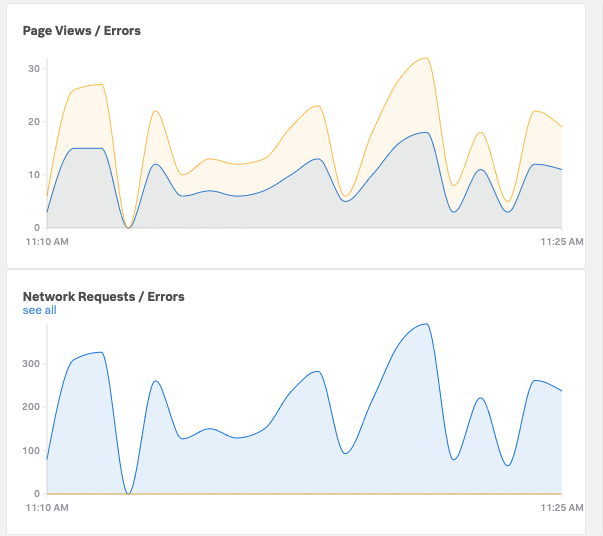
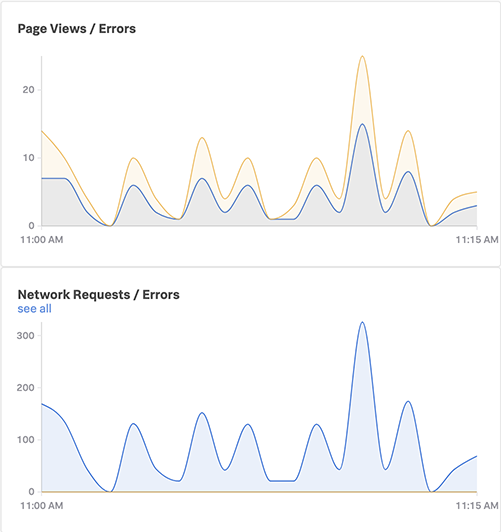
Updated RUM BrowserApp-Summary and associated images

diff --git a/content/en/rum/docs/BrowserApp-Summary.md b/content/en/rum/docs/BrowserApp-Summary.md
@@ -9,62 +9,71 @@ weight: 2
 
 ---
 
-## 1. Browser Application Summary Dashboard Overview
+## 1. Application Summary Dashboard Overview
 
-### 1.1. Header Pane
+### 1.1. Header Bar
 
 As seen in the previous section the RUM Application Summary Dashboard consists of 5 major sections.</br>
-The first section is the selection header, where you can collapse the Pane via the ![RUM-browser](../../images/browser.png) Browser icon or the **>** in front of the application name. which is *jmcj-rum-app* in the example below. 
-It also provides access to the Detailed Application Overview page if you click the link with your application name wich is *jmcj-rum-app* in the example below. 
+The first section is the selection header, where you can collapse the Pane via the ![RUM-browser](../../images/browser.png) Browser icon or the **>** in front of the application name, which is *jmcj-rum-app* in the example below. It also provides access to the *Application Overview* page if you click the link with your application name which is *jmcj-rum-app* in the example below.
 
-Further, you can also visit/open the Application Overview Page and an App Health Dashboard via the hamburger ![trippleburger](../../images/trippleburger.png) menu on the right by selecting *View Dashboard*
+Further, you can also open the *Application Overview*  or *App Health Dashboard* via the triple dot ![trippleburger](../../images/trippleburger.png) menu on the right.
 
 ![RUM-SummaryHeader](../../images/summaryHeader.png)
 
-Please visit the Detailed Overview page for a moment, then use the back button of your browser to return the landing page, then open the Browser App Health Dashboard for a quick visit (note: this dashboard will open in a new page, find the tab with the RUM landing page (Entitled **RUM**) and select it again).
+First use the *View Dashboard* link to open the Browser App Health Dashboard which should open in a new tab.  Then switch back to original RUM tab, and then use the *Open Application Overview* link, or click on the name of the app to launch the Application Overview dashboard.
 
-We will looking at the Detail Overview page and the Browser App Health Dashboard in detail in one of the next sections).
+We will looking at the *Application Overview* and *Browser App Health* Dashboards in detail in the following sections.
 
-### 1.3. Chart Area
-The second section of the RUM Application Summary Dashboard is focused on providing you in a single glance the relation between Pageviews and Errors & Network request and errors occurring in your application. This can be Javascript errors, or failed  network calls to back end services
+## 2. Application Overview
 
-![RUM-chart](../../images/Rum-chart.png)
+The RUM Application Overview Dashboard is focused on providing you with *at a glance* overview of the status of your application. 
 
-In the example above you can see that there are no failed network calls in the bottom chart, but in the PageView chart you can see that a number of page chart do experienced some errors. These are often not visible for regular users, but can seriously impact the performance of your web site. 
+### 2.1. Page Views / Errors & Network Requests / Errors
 
-You can see the count of the Pageviews/network invocations and errors by clicking in the chart.
+The first section shows *Page Views / Errors*, & *Network Requests and Errors* charts show the quantity and trend of these issues in your application. This could be Javascript errors, or failed  network calls to back end services.
 
-![RUM-chart-clicked](../../images/RumChart-clicked.png)
+![RUM-chart](../../images/RUM-Chart.png)
 
-### 1.4. Java Script Errors
-With the third section of the RUM Application Summary Dashboard we are showing you an overview of the Javascript errors occurring in your application as wel of a count of each error. In the example below you can see that there are three error locations 
+In the example above you can see that there are no failed network calls in the Network chart, but in the Page View chart you can see that a number of pages do experience some errors. These are often not visible for regular users, but can seriously impact the performance of your web site.
+
+You can see the count of the Page Views / Network Requests / Errors by hovering over the charts.
+
+![RUM-chart-clicked](../../images/RUM-Chart-Clicked.png)
+
+### 2.2. JavaScript Errors
+
+With the second section of the RUM Application Summary Dashboard we are showing you an overview of the JavaScript errors occurring in your application, along with a count of each error.
 
 ![RUM-javascript](../../images/RUM-Javascripterrors.png)
 
-In the example above you can see there are three Java script errors, one that appears 29 times in the selected time slot, andd the two other appear 12 times each.
-If you click on one of the errors a new page opens that will show a chart showing you the count over time, and  the stack trace of the javascript error, giving you and indication where the problem happened. ( We will see this in more detail in one of the next sections.)
+In the example above you can see there are three JavaScript errors, one that appears 29 times in the selected time slot, and the other two each appear 12 times.
+
+If you click on one of the errors a pop-out opens that will show a summary (below) of the errors over time, along with a Stack Trace of the JavaScript error, giving you an indication of where the problems occurred. (We will see this in more detail in one of the following sections)
 
 ![RUM-javascript-chart](../../images/expandedRUmJAVAscript-error.png)
 
-### 1.5. Web Vitals
-The forth section of the RUM Application Summary Dashboard is showing you the crucial (google) Web Vitals, three metrics, that are used by Google in its ranking system, and give a very good indication of the speed  of your site for your end users. 
+### 2.3. Web Vitals
+
+The third section of the RUM Application Summary Dashboard is showing you the crucial (google) Web Vitals, three metrics, that are used by Google in its ranking system, and give a very good indication of the speed  of your site for your end users. 
 
 ![WEB-vitals](../../images/RUM-QuickWebVitals.png)
 
-As you can see our site is wel behaved and scores *Good* for all three Metrics. If it would be different, these metrics can be used to identify the effect changes to you application have, and help you improve the performance of your site. 
+As you can see our site is well behaved and scores *Good* for all three Metrics. These metrics can be used to identify the effect changes to your application have, and help you improve the performance of your site.
 
-If you click on any of the Metrics show in the webVitals pane you will be taken to the corresponding Tag Spot light Dashboard.  If you click on the Large Contentful Paint (LCP) metric, you will be taken to a dashboard similar to the screen shot below, that give you an insight and trend view fof how this metric varied, allowing you to identify trends where the problem may originate from like a region, OS version or browser version for example.
+If you click on any of the Metrics shown in the Web Vitals pane you will be taken to the corresponding Tag Spotlight Dashboard.  e.g. clicking on the **Largest Contentful Paint (LCP)** chartlet, you will be taken to a dashboard similar to the screen shot below, that gives you timeline and table views for how this metric has performed. This should allow you to spot trends and identify where the problem may be more common, such as an OS or browser version, .
 
-![WEB-vitals-tag](../../images/RUM-WVTAG.png)
+![WEB-vitals-tag](../../images/RUM-Tag-Spotlight.png)
 
-### 1.6. Most Recent Detectors
-The last section of the RUM Application Summary Dashboard is focused on providing you  an overview of any detector that has triggered for you application.
-We have created a detector for this screen shot  and very likely your pane will be empty now  but we will add some detectors to you site and make sure they are triggered in one of the next sections 
+### 2.4. Most Recent Detectors
+
+The fourth and final section of the RUM Application Summary Dashboard is focused on providing you an overview of any detector that has triggered for your application. We have created a detector for this screen shot but your pane will be empty for now, but we will add some detectors to your site and make sure they are triggered in one of the next sections.
 
 ![detectors](../../images/rum-detector.png)
 
-In the screen shot you can see we have a critical alert for the *RUM Aggregated View Detector*,  and a Count, how often this alert has triggered in the selected time window. If you click on the  name of the Alert (that is shown as a blue link)  you will be taken to the Alert over view page and show the details of the alert (Note: this will move you away from the current page, Please use the **Back** option of your browser to return to the overview page) 
+In the screen shot you can see we have a critical alert for the *RUM Aggregated View Detector*,  and a Count, how often this alert has triggered in the selected time window. If you happen to have an alert listed, you can click on the name of the Alert (that is shown as a blue link) and you will be taken to the Alert Overview page showing the details of the alert (Note: this will move you away from the current page, Please use the **Back** option of your browser to return to the overview page).
 
 ![alert](../../images/click-alert.png)
+
 ---
+
 Please take a few minutes to experiment with the RUM Application Summary Dashboard  and the underlying chart and dashboards before going on to the next section.
